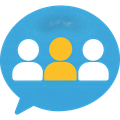
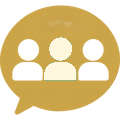
おすすめ枠の見出し・文字色・アイコン色とスマホ枠の太さを調整
Claude-Session: https://claude.ai/code/session_01BNgnZCpr6u7Q7ufoZkFXvR

diff --git a/index.html b/index.html
@@ -149,12 +149,15 @@ h2 em{font-style:normal;font-family:var(--display);font-size:1.4rem;letter-spaci
 .feat::before{content:"PICK UP";position:absolute;left:18px;top:-14px;padding:3px 14px;border-radius:999px;font-family:var(--display);font-weight:900;font-size:.95rem;letter-spacing:.14em;color:#0b0c0e;background:linear-gradient(180deg,rgba(255,255,255,.55),rgba(255,255,255,0) 55%),linear-gradient(100deg,#f6e27a,#d4af37 55%,#a07a1c);box-shadow:0 6px 16px -6px rgba(0,0,0,.6)}
 .feat-img img{display:block;width:100%;height:auto;border-radius:14px;box-shadow:0 14px 30px -18px rgba(6,70,64,.8)}
 .badge{display:inline-block;font-family:var(--head);font-weight:900;font-size:.72rem;padding:2px 10px;border-radius:999px;color:#fff;background:linear-gradient(100deg,#7a1630,#a3243f 55%,#c8334f);box-shadow:0 4px 12px -4px rgba(163,36,63,.7)}
-.feat-h{color:#ffffff;text-shadow:0 2px 12px rgba(0,0,0,.45);font-family:var(--head);font-weight:900;font-size:clamp(1.25rem,2.4vw,1.7rem);line-height:1.25;margin-top:6px;letter-spacing:-.01em}
+.feat-h{position:relative;display:block;width:fit-content;max-width:100%;margin-top:8px;padding-bottom:8px;font-family:var(--head);font-weight:900;font-size:clamp(1.6rem,3.3vw,2.4rem);line-height:1.2;letter-spacing:.01em;color:#fff;text-shadow:0 0 18px rgba(212,175,55,.45),0 2px 0 rgba(0,0,0,.6)}
+.feat-h::after{content:"";position:absolute;left:0;bottom:0;width:100%;height:4px;border-radius:4px;background:linear-gradient(90deg,#a3243f,#d4af37 40%,#f6e27a 60%,#d4af37 80%,transparent);background-size:200% 100%;animation:barflow 4s linear infinite}
+.feat-h small{display:block;font-size:.55em;letter-spacing:.18em;color:#f3dc9a;margin-bottom:2px}
+@keyframes barflow{to{background-position:-200% 0}}
 .feat-lead{font-size:.84rem;color:#c9d0d8;line-height:1.55;margin-top:6px}
 .merits{list-style:none;padding:0;margin:10px 0 0;display:grid;grid-template-columns:1fr 1fr;gap:6px}
 .merits li{padding:7px 10px;border-radius:10px;background:linear-gradient(180deg,rgba(255,255,255,.07),rgba(255,255,255,.02));border:1px solid rgba(192,199,207,.35);border-left:3px solid #a3243f}
-.merits b{display:block;font-family:var(--head);font-weight:900;font-size:.8rem;letter-spacing:-.02em;white-space:nowrap;color:#5ccbf5}
-.merits span{display:block;font-size:.72rem;color:#aeb6bf;line-height:1.4}
+.merits b{display:block;font-family:var(--head);font-weight:900;font-size:.8rem;letter-spacing:-.02em;white-space:nowrap;color:#f3dc9a}
+.merits span{display:block;font-size:.72rem;color:#d4d9de;line-height:1.4}
 .feat-cta{display:flex;align-items:center;gap:12px;flex-wrap:wrap;margin-top:12px}
 .btn.big{font-size:.9rem!important;padding:7px 22px!important;min-height:42px!important;color:#0b0c0e!important;background:linear-gradient(180deg,rgba(255,255,255,.5),rgba(255,255,255,0) 55%),linear-gradient(100deg,#f6e27a,#d4af37 55%,#a07a1c)!important;box-shadow:0 8px 20px -8px rgba(212,175,55,.6)!important}
 .note2{font-size:.72rem;color:#aeb6bf}
@@ -167,7 +170,7 @@ h2 em{font-style:normal;font-family:var(--display);font-size:1.4rem;letter-spaci
 .step b.sn img{width:28px;height:28px;filter:drop-shadow(0 3px 5px rgba(11,107,96,.18))}
 .step b.sn i{order:-1;font-style:normal;font-family:var(--display);font-weight:900;font-size:.68rem;line-height:1;padding:2px 6px 1px;border-radius:999px;color:#fff;background:linear-gradient(110deg,#2cb5a3,#0b8a77 55%,#c9a24a);white-space:nowrap}
 .merits li{display:flow-root}
-.merits .mic{float:left;width:34px;height:34px;margin:1px 8px 0 0;filter:drop-shadow(0 2px 6px rgba(92,203,245,.35))}
+.merits .mic{float:left;width:34px;height:34px;margin:1px 8px 0 0;filter:drop-shadow(0 2px 6px rgba(212,175,55,.35))}
 @media (max-width:420px){.merits .mic{float:none;display:inline-block;width:20px;height:20px;vertical-align:-4px;margin:0 6px 0 0}.merits li b{display:inline}}
 @media (min-width:861px) and (max-width:1120px){.merits{grid-template-columns:minmax(0,1fr)}}
 @media (max-width:640px){.merits b{white-space:normal}}
@@ -242,7 +245,7 @@ footer{position:relative;z-index:1;padding-block:4px calc(22px + env(safe-area-i
     <div class="feat-img"><img src="team-app.png" alt="チーム連絡アプリのホーム・スケジュール・連絡・メンバー画面" width="1600" height="1000"></div>
     <div class="feat-txt">
       <span class="badge">いちばんのおすすめ</span>
-      <h2 class="feat-h">ドッジボールチーム連絡アプリ</h2>
+      <h2 class="feat-h"><small>ドッジボール</small>チーム連絡アプリ</h2>
       <p class="feat-lead">練習・大会の予定、出欠、連絡、メンバー管理を1つのアプリにまとめました。LINEグループで流れてしまう情報を整理し、指導者・保護者・運営の手間を減らします。チームカラーとロゴに合わせて、チームごとに仕立てます。</p>
       <ul class="merits">
         <li><img class="mic" src="icons/mt-tap.png" alt="" width="34" height="34"><b>出欠がワンタップ</b><span>参加・遅れて参加・不参加を押すだけ。集計は自動です。</span></li>

diff --git a/team-app.html b/team-app.html
@@ -19,8 +19,8 @@
   --bg1:#3fb8ab; --bg2:#4fc1b5; --bg3:#0e7d70; --tile:#2a2e35;
   --ivory:#ffffff; --card:#ffffff; --ink:#0d2b29; --ink2:#355754; --muted:#6c8784; --hair:#d4ece8;
   --on:#ffffff; --on2:#f1fbf9;
-  --khaki:#0f8a7c; --olive:#0b6b60; --brass:#c9a24a; --gold:#d4af37; --rust:#c9a24a; --teal:#0f8a7c; --sky:#5ccbf5;
-  --grad:linear-gradient(110deg,#5ccbf5 0%,#2cb5a3 30%,#0b8a77 52%,#c9a24a 78%,#f3d98b 100%);
+  --khaki:#0f8a7c; --olive:#0b6b60; --brass:#c9a24a; --gold:#d4af37; --rust:#c9a24a; --teal:#0f8a7c; --sky:#f3dc9a;
+  --grad:linear-gradient(110deg,#f3dc9a 0%,#2cb5a3 30%,#0b8a77 52%,#c9a24a 78%,#f3d98b 100%);
   --grad-soft:linear-gradient(110deg,rgba(129,216,208,.22),rgba(15,138,124,.12),rgba(201,162,74,.16));
   --display:"Big Shoulders Display","Arial Narrow",sans-serif;
   --head:"Zen Kaku Gothic New","Hiragino Sans","Yu Gothic",sans-serif;
@@ -72,13 +72,13 @@ h2 em{font-style:normal;font-family:var(--display);font-size:1.5rem;letter-spaci
 .pains{list-style:none;padding:0;margin:10px 0 0;display:grid;grid-template-columns:repeat(4,minmax(0,1fr));gap:8px}
 .pains li{padding:10px 12px;border-radius:12px;background:rgba(255,255,255,.04);border:1px dashed rgba(192,199,207,.4);font-size:.82rem;line-height:1.45;color:#aeb6bf}
 .pains li b{display:block;color:#f4f6f8;font-family:var(--head);font-weight:900;font-size:.88rem;margin-bottom:2px}
-.arrow{text-align:center;font-family:var(--head);font-weight:900;color:#5ccbf5;margin-top:10px;font-size:.95rem}
+.arrow{text-align:center;font-family:var(--head);font-weight:900;color:#f3dc9a;margin-top:10px;font-size:.95rem}
 .arrow::before{content:"";display:block;width:0;height:0;margin:0 auto 4px;border:12px solid transparent;border-top:14px solid #d4af37;border-bottom:0}
 
 .screens{display:grid;grid-template-columns:repeat(4,minmax(0,1fr));gap:12px;margin-top:12px}
 .scr{display:flex;flex-direction:column;gap:6px;min-width:0}
-.phone{border-radius:26px;padding:7px;background:linear-gradient(145deg,#f6e27a,#d4af37 40%,#8a6a1c 75%,#d4af37);box-shadow:0 14px 28px -16px rgba(6,70,64,.7)}
-.phone div{border-radius:20px;overflow:hidden;aspect-ratio:390/700;background:#fff}
+.phone{border-radius:26px;padding:3px;background:linear-gradient(145deg,#f6e27a,#d4af37 40%,#8a6a1c 75%,#d4af37);box-shadow:0 14px 28px -16px rgba(6,70,64,.7)}
+.phone div{border-radius:23px;overflow:hidden;aspect-ratio:390/700;background:#fff}
 .phone img{width:100%}
 .scr b{font-family:var(--head);font-weight:900;font-size:.95rem;color:#f6e27a}
 .scr span{font-size:.78rem;color:#aeb6bf;line-height:1.45}
@@ -124,7 +124,7 @@ footer{position:relative;z-index:1;text-align:center;font-size:.75rem;color:#8a9
   <g class="spin"><path d="M1060 380 l78 -135 l78 135 z" stroke="#d4af37" stroke-opacity=".8" stroke-width="2.5"/></g>
   <rect x="60" y="500" width="170" height="170" rx="10" transform="rotate(18 145 585)" fill="url(#dia)"/>
   <rect x="60" y="500" width="170" height="170" rx="10" transform="rotate(18 145 585)" stroke="#c0c7cf" stroke-opacity=".5" stroke-width="2"/>
-  <path d="M-40 230 a180 180 0 0 1 360 0 z" fill="#5ccbf5" fill-opacity=".25"/>
+  <path d="M-40 230 a180 180 0 0 1 360 0 z" fill="#f3dc9a" fill-opacity=".25"/>
   <path d="M-40 230 a120 120 0 0 1 240 0" stroke="#c0c7cf" stroke-opacity=".5" stroke-width="2"/>
   <g class="bob"><circle cx="370" cy="130" r="14" fill="url(#gg)"/><circle cx="1340" cy="560" r="10" fill="#ffffff" fill-opacity=".9"/><circle cx="640" cy="890" r="12" fill="#d4af37"/><rect x="930" y="600" width="18" height="18" transform="rotate(45 939 609)" fill="#ffffff" fill-opacity=".8"/></g>
   <g stroke="#c0c7cf" stroke-opacity=".28" stroke-width="2"><path d="M1170 770 l230 -230"/><path d="M1200 800 l230 -230"/><path d="M1230 830 l230 -230"/><path d="M1260 860 l230 -230"/></g>
